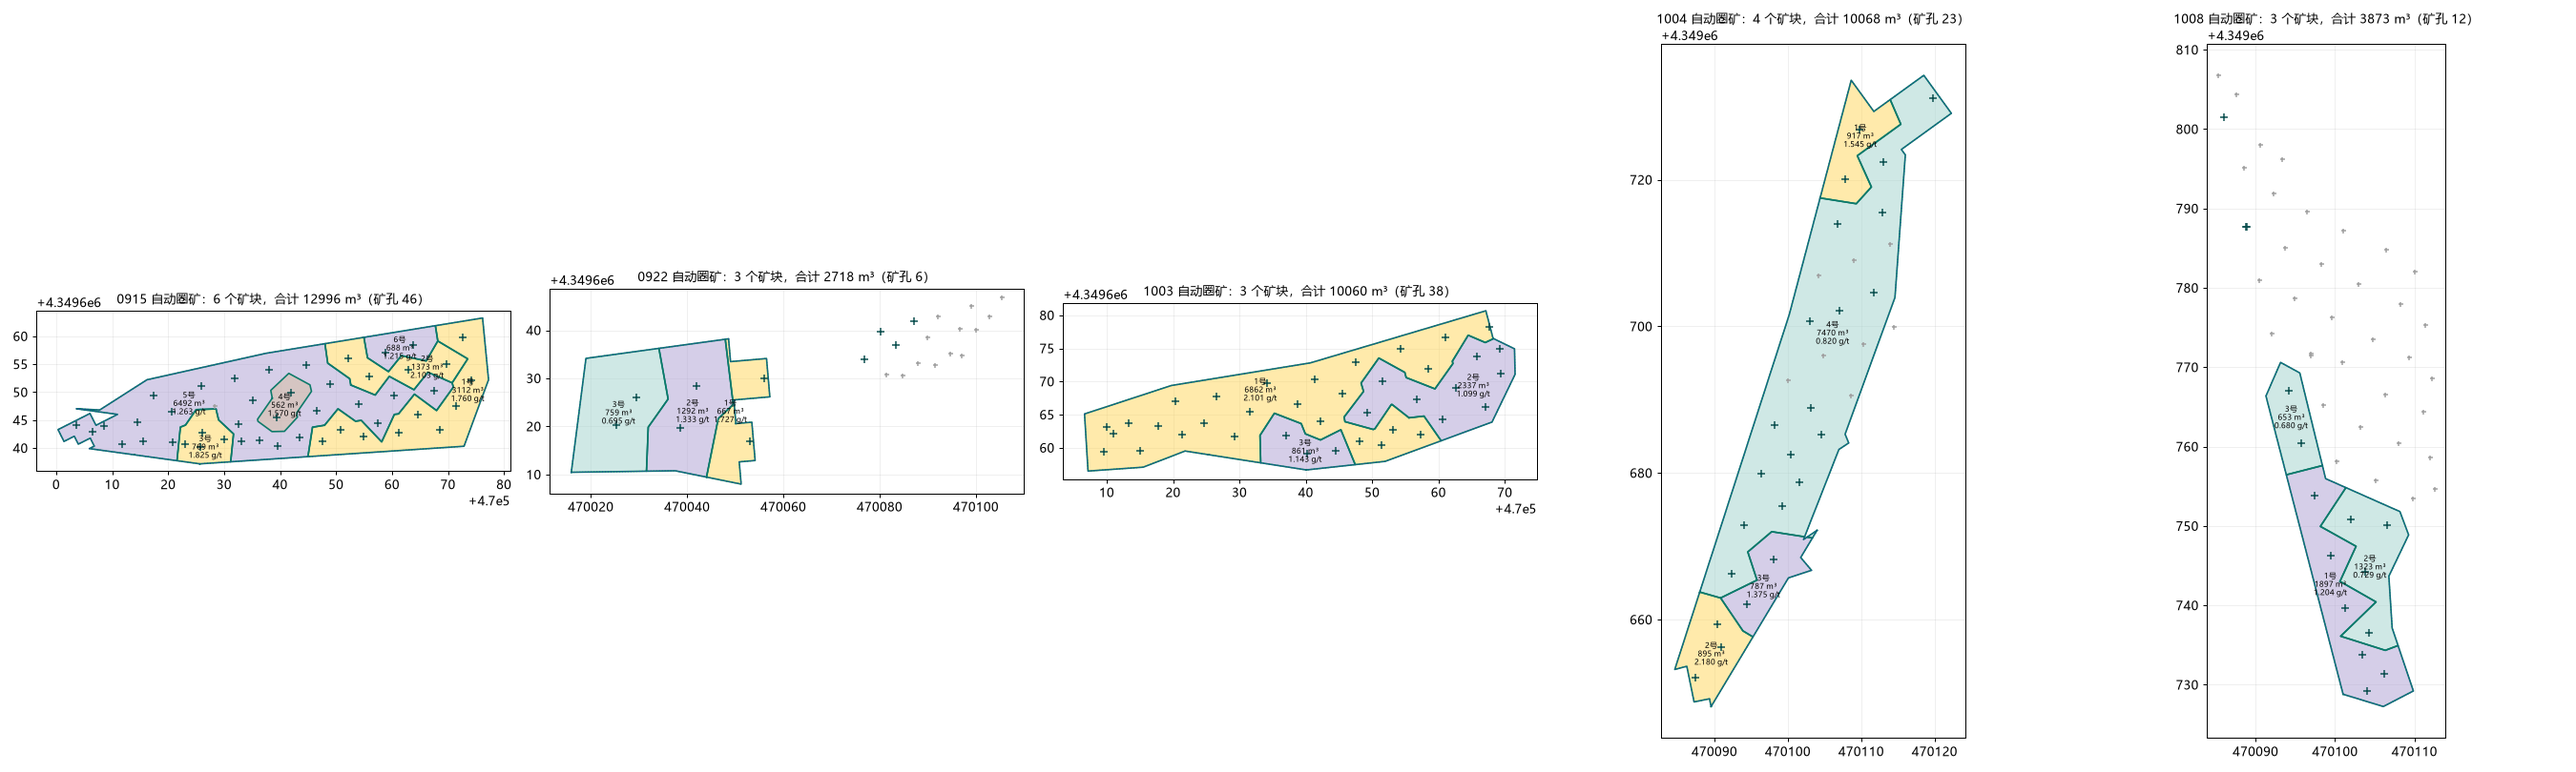
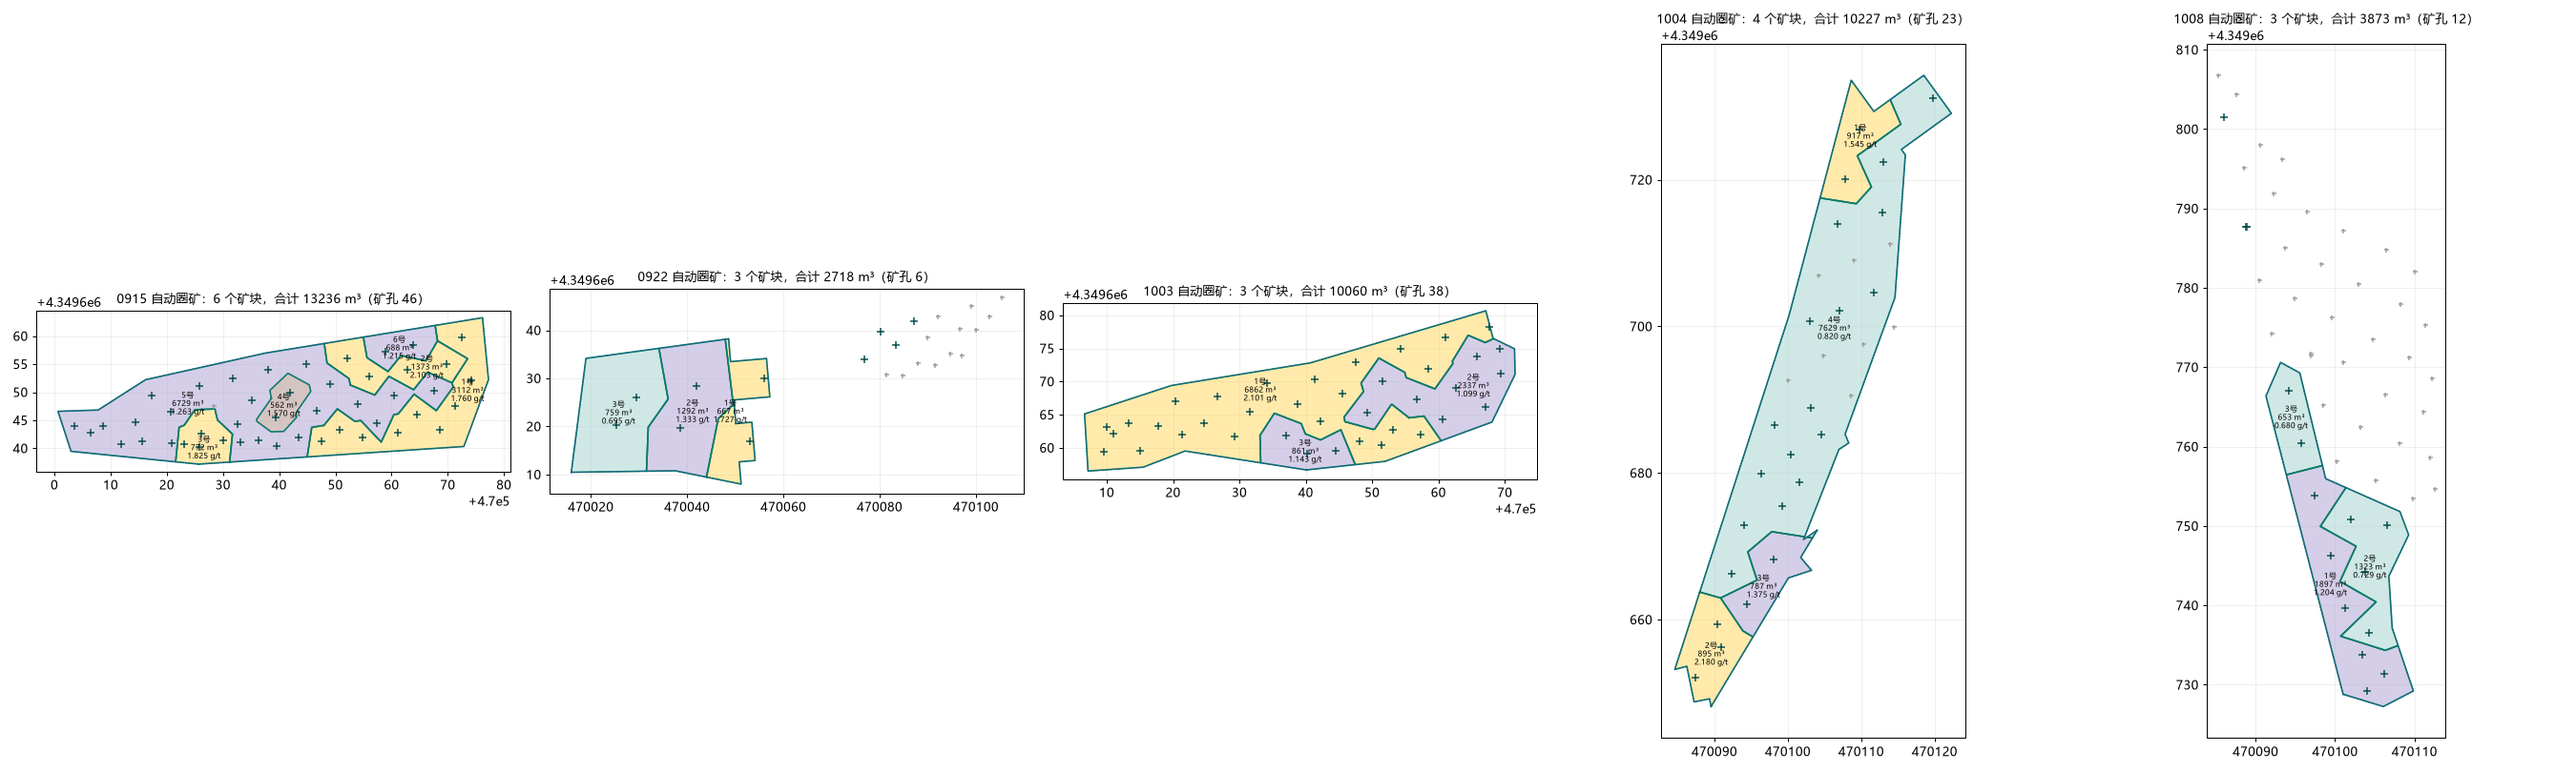
core: 端部闭合按用户'单排孔规则'重做(只认端外无品位孔;端外无孔则沿走向外推)——3940-0915 不再需要自检修补(IoU 0.923->0.927、-1.6%->-1.4%)、1004 IoU 0.805->0.820；0919 单独保留旧闭合；selftest 修掉 GBK 下 UnicodeEncodeError 把退出码顶成 1 的 bug；新增端部对比审图与'同一排窗口'对照实验

diff --git a/3DMine二次圈矿工具_初步原型/core/strip.py b/3DMine二次圈矿工具_初步原型/core/strip.py
@@ -35,6 +35,11 @@ COMPOSITE_BLOCK_LAYERS = None
 # 40 m² + "并入平均品位最接近的邻块" 时，与人工图的分块一致率最高（0.936）。
 MIN_FRAGMENT_M2 = 40.0
 CHAIN_WINDOW_FACTOR = 1.0   # 链提取的沿向窗口 = 1.0 × 中位最近孔距
+# "同一排"的判定窗口 = 这个系数 × 矿孔最近邻距离中位数（用户 2026-10-14 说
+# "不设范围"；实测去掉窗口（设成很大的数）会让几乎所有孔都变成内部孔，
+# 1008 的 12 孔归属从"与人工全一致"掉到 4 个孔进不了链，所以窗口先留着，
+# 系数做成常量方便标定/回退。
+CHAIN_BAND_FACTOR = 0.9
 END_SEARCH_R = 12.0    # 端部找邻孔半径
 END_LIMIT = 2          # 每端每侧最多取几个邻孔的中点
 MIN_HOLES_FOR_INTERIOR = 6   # 少于这么多孔就不做"内部孔"剔除（小组直接分左右）
@@ -162,7 +167,7 @@ def zone_chains(ore, all_holes=None, manual_left=(), manual_right=(), exclude=No
     for i in range(n):
         dmin.append(min(np.hypot(xy[j][0] - xy[i][0], xy[j][1] - xy[i][1])
                         for j in range(n) if j != i) if n > 1 else 0.0)
-    band = 0.9 * float(np.median(dmin)) if n > 1 else 0.0
+    band = CHAIN_BAND_FACTOR * float(np.median(dmin)) if n > 1 else 0.0
     left, right = [], []
     for i in range(n):
         if ore[i].short in ex:
@@ -290,14 +295,25 @@ def _smooth_chain(pts, tol: float):
     return [tuple(c[:2]) for c in ln.coords]
 
 
-def _end_mids(end_hole, waste, ref_dir, radius=END_SEARCH_R):
-    """端部闭合：端孔与附近所有无品位孔的中点，沿 ref_dir 排序。"""
+def _end_mids(end_hole, waste, ref_dir, radius=END_SEARCH_R, beyond_only=True):
+    """端部闭合：端孔与**端部之外**的无品位孔的中点，沿 ref_dir 排序。
+
+    用户规则（2026-10-14）：端部"单排孔"要往**没有炮孔的一侧**推 extrude；
+    另一侧（有无品位孔的一侧）用"1/2 工程间距"＝矿孔与无品位孔的中点。
+    所以只认**落在端孔之外**（沿 ref_dir 前方）的无品位孔——落在矿化带内侧的
+    无品位孔不能拿来当端部闭合点（0915 曾经把内侧的 P21 拿去闭合，端头拧成一团、
+    4 个矿孔被甩到界外）。
+    """
     mids = []
+    r = np.asarray(ref_dir, float)
     for w in waste:
         d = math.hypot(end_hole.x - w.x, end_hole.y - w.y)
-        if d <= radius:
-            mids.append(((end_hole.x + w.x) / 2.0, (end_hole.y + w.y) / 2.0))
-    r = np.asarray(ref_dir, float)
+        if d > radius:
+            continue
+        if beyond_only and ((w.x - end_hole.x) * r[0]
+                            + (w.y - end_hole.y) * r[1]) <= 0:
+            continue                       # 无品位孔在矿化带内侧，不参与端部闭合
+        mids.append(((end_hole.x + w.x) / 2.0, (end_hole.y + w.y) / 2.0))
     mids.sort(key=lambda p: (p[0] - end_hole.x) * r[0] + (p[1] - end_hole.y) * r[1])
     return mids
 
@@ -594,7 +610,7 @@ def _finish_ring(poly, ore, extrude, simplify, repair_tip=None):
 
 
 def _alpha_ring(ore, all_holes, extrude: float, comp_blocks, merge_gap: float,
-                blast: str, k: float):
+                blast: str, k: float, end_pair_beyond: bool = True):
     """外轮廓环：矿孔凹包 + 外推，再把北端闭合与南端接综合图的"走廊"补进来。
 
     专治"孔列多、走向弯"的矿带——那时按走向中线分左右链会把外圈孔判成内部孔，
@@ -618,7 +634,8 @@ def _alpha_ring(ore, all_holes, extrude: float, comp_blocks, merge_gap: float,
         sel = [j for j in range(len(ore)) if lo <= s_all[j] <= hi]
         mids = []
         for j in sel:
-            mids += _end_mids(ore[j], waste, u if want_north else -u, radius=12.0)
+            mids += _end_mids(ore[j], waste, u if want_north else -u, radius=12.0,
+                              beyond_only=end_pair_beyond)
         return mids
 
     north = None
@@ -658,7 +675,7 @@ def zone_outline(ore, all_holes, extrude: float = EXTRUDE_M,
                  alpha_k: float = 0.0, chain_mode: str = "pca",
                  ring_mode: str = "chain", chain_left=(), chain_right=(),
                  chain_exclude=None, chain_smooth_m: float = 0.0,
-                 repair_tip_m: float = None):
+                 repair_tip_m: float = None, end_pair_beyond: bool = True):
     """整条矿化带的外围矿界（复刻人工图的折线结构：11~21 个拐点）。
 
     人工图的画法（由其 .3ds 逐步还原）：
@@ -671,7 +688,7 @@ def zone_outline(ore, all_holes, extrude: float = EXTRUDE_M,
         return None
     if ring_mode == "alpha":
         poly = _alpha_ring(ore, all_holes, extrude, comp_blocks, merge_gap,
-                           blast, alpha_k or 2.0)
+                           blast, alpha_k or 2.0, end_pair_beyond=end_pair_beyond)
         if poly is not None and not poly.is_empty:
             poly = _finish_ring(poly, ore, extrude, simplify, repair_tip_m)
             LAST_RING["merged_block"] = LAST_RING.get("merged_block")
@@ -702,7 +719,8 @@ def zone_outline(ore, all_holes, extrude: float = EXTRUDE_M,
         sel = [j for j in range(len(ore)) if lo <= s_all[j] <= hi]
         mids = []
         for j in sel:
-            mids += _end_mids(ore[j], waste, u if want_north else -u, radius=12.0)
+            mids += _end_mids(ore[j], waste, u if want_north else -u, radius=12.0,
+                              beyond_only=end_pair_beyond)
         return mids
 
     # 北端：只有"配方所属炮区"才用人工配方（8 个指定孔对的中点，1008 上 8/8 吻合）。

diff --git a/3DMine二次圈矿工具_初步原型/_probe/_review0915.py b/3DMine二次圈矿工具_初步原型/_probe/_review0915.py
@@ -1,0 +1,54 @@
+# -*- coding: utf-8 -*-
+import sys, json
+from pathlib import Path
+ROOT = Path(".").resolve()
+sys.path.insert(0, str(ROOT/"core")); sys.path.insert(0, str(ROOT/"_probe"))
+import matplotlib; matplotlib.use("Agg")
+import matplotlib.pyplot as plt
+matplotlib.rcParams["font.sans-serif"]=["Microsoft YaHei","SimHei"]; matplotlib.rcParams["axes.unicode_minus"]=False
+from shapely.geometry import Polygon, Point
+from shapely.ops import unary_union
+from oreblocks import load_holes_xls
+from pipeline import run_blast
+from composite import load_composite_blocks
+import params as _params, baseline as _bl
+DAY = ROOT.parent/"北部山头3940平台2026"
+folder = [d for d in (DAY/"7、单日数据").iterdir() if d.is_dir() and d.name.endswith("0915")][0]
+holes = load_holes_xls(sorted(folder.glob("1、*.xls"))[0]); allh=list(holes.values())
+comp = load_composite_blocks(DAY/"5、 北部山头3940平台二次圈矿矿块图-2026综合.dwg")
+P = dict(_params.for_blast("0915", platform="3940"))
+old = dict(P); old["end_pair_beyond"] = False
+res_new = run_blast(holes, allh, P, comp, blast="0915")
+res_old = run_blast(holes, allh, old, comp, blast="0915")
+j = json.loads(_bl.scan_path("3940","0915").read_text(encoding="utf-8"))
+mb=[Polygon(p["pts"]).buffer(0) for p in j["polylines"] if p["layer"] not in {"爆区方格网","钻孔","点","线条","孔口文字"} and len(p["pts"])>=3 and _bl.is_block(Polygon(p["pts"]).buffer(0),p["layer"],allh)]
+man=unary_union(mb)
+def ext(g, out):
+    for gg in ([g] if g.geom_type=="Polygon" else list(g.geoms)):
+        x,y=gg.exterior.xy; out.append((x,y))
+def ring_geom(res):
+    r=res["rings"][0]
+    for rr in res["rings"][1:]: r=r.union(rr)
+    return r
+rings={"new":ring_geom(res_new), "old":ring_geom(res_old)}
+fig,axs=plt.subplots(1,2,figsize=(21,10))
+for ax,(x0,x1,y0,y1),title in zip(axs,[(469995,470082,4349632,4349668),(469994,470030,4349635,4349658)],["3940-0915 全图对照","0915 西端头放大"]):
+    ext(man, [])
+    for gg in ([man] if man.geom_type=="Polygon" else list(man.geoms)):
+        x,y=gg.exterior.xy; ax.plot(x,y,color="#d62728",lw=2.0,label="人工图")
+    for key,col,ls,lw,lab in (("old","#999999","--",1.4,"旧闭合（端部借用内侧无品位孔）"),("new","#1f77b4","-",1.8,"新闭合（端部只认端外无品位孔 → 3 m）")):
+        for gg in ([rings[key]] if rings[key].geom_type=="Polygon" else list(rings[key].geoms)):
+            x,y=gg.exterior.xy; ax.plot(x,y,color=col,ls=ls,lw=lw,label=lab if key=="new" or True else None)
+    for h in allh:
+        col="orange" if h.grade>=0.5 else "black"
+        ax.plot(h.x,h.y,"o",color=col,ms=5)
+        ax.annotate(h.short.replace("BS-3940-0915-","")+"/%.2f"%h.grade,(h.x,h.y),fontsize=7.5)
+    ax.set_xlim(x0,x1); ax.set_ylim(y0,y1); ax.set_aspect("equal"); ax.grid(alpha=.3)
+    h,l=ax.get_legend_handles_labels(); seen=set(); hh=[];ll=[]
+    for a,b in zip(h,l):
+        if b in seen: continue
+        seen.add(b); hh.append(a); ll.append(b)
+    ax.legend(hh,ll,loc="upper left",fontsize=10)
+    ax.set_title(title,fontsize=13)
+fig.savefig(ROOT/"sample_data"/"output"/"审图_3940-0915_端部闭合对比.png",dpi=115,bbox_inches="tight")
+print("saved")

diff --git a/3DMine二次圈矿工具_初步原型/_probe/_exp_band.py b/3DMine二次圈矿工具_初步原型/_probe/_exp_band.py
@@ -1,0 +1,43 @@
+# -*- coding: utf-8 -*-
+"""实验：把"同一排"窗口去掉（band=∞）看 3940/3960 会怎样。"""
+import sys, json
+from pathlib import Path
+ROOT = Path(".").resolve()
+sys.path.insert(0, str(ROOT/"core")); sys.path.insert(0, str(ROOT/"_probe"))
+from shapely.geometry import Polygon
+from shapely.ops import unary_union
+from oreblocks import load_holes_xls
+import strip as S
+DAY = ROOT.parent
+PLAT={"3940":DAY/"北部山头3940平台2026","3960":DAY/"北部山头3960平台2026"}
+import baseline as _bl, params as _params
+from pipeline import run_blast
+from composite import load_composite_blocks
+
+def report(tag):
+    print("=== %s ===" % tag)
+    for plat, pdir in PLAT.items():
+        comp=load_composite_blocks(sorted(pdir.glob("*综合*.dwg"))[0])
+        for folder in sorted(d for d in (pdir/"7、单日数据").iterdir() if d.is_dir()):
+            if not sorted(folder.glob("1、*.xls")): continue
+            date=folder.name.split("-")[-1].strip()
+            jf=_bl.scan_path(plat,date)
+            if not jf.exists(): continue
+            holes=load_holes_xls(sorted(folder.glob("1、*.xls"))[0]); allh=list(holes.values())
+            j=json.loads(jf.read_text(encoding="utf-8"))
+            mb=[Polygon(p["pts"]).buffer(0) for p in j["polylines"] if p["layer"] not in {"爆区方格网","钻孔","点","线条","孔口文字"} and len(p["pts"])>=3 and _bl.is_block(Polygon(p["pts"]).buffer(0),p["layer"],allh)]
+            if not mb: continue
+            man=unary_union(mb)
+            P=_params.for_blast(date,platform=plat)
+            res=run_blast(holes, allh, P, comp, blast=date)
+            if not res["rings"]: print("  %s-%s 无矿界" % (plat,date)); continue
+            ring=res["rings"][0]
+            for rr in res["rings"][1:]: ring=ring.union(rr)
+            iou=ring.intersection(man).area/ring.union(man).area
+            tv=sum(b.volume_m3 for b in res["blocks"])
+            mv,_=_bl.volume_for_gate(plat,date,man,res["ore"])
+            print("  %-11s iou=%.3f 块=%d vol差=%+.1f%% 外孔=%d" % (plat+"-"+date, iou, len(res["blocks"]), 100*(tv-mv)/mv if mv else 0, len([h for h in res["ore"] if not ring.contains(__import__("shapely.geometry",fromlist=["Point"]).Point(h.x,h.y))])))
+
+report("当前 band=0.9×孔距")
+S.CHAIN_BAND_FACTOR = 50.0
+report("实验 band=∞（不设范围）")

diff --git a/3DMine二次圈矿工具_初步原型/core/params.py b/3DMine二次圈矿工具_初步原型/core/params.py
@@ -31,6 +31,11 @@ DEFAULTS = {
     "chain_exclude": [],
     "chain_smooth_m": 0.0,     # >0 时先给链做道格拉斯-普客平滑再外推（治锯齿尖刺）
     "repair_tip_m": 0.8,       # 自检修补廊道端头伸出量(m)；-1 = 自动(extrude+0.8，上限 4)
+    # 端部闭合时只认"落在端孔之外"的无品位孔（用户 2026-10-14 规则：单排端头往
+    # 没有炮孔的一侧推 extrude，另一侧用 1/2 工程间距＝与无品位孔的中点）。
+    # 置 False = 旧的宽松行为（半径内任何无品位孔都拿来取中点），只给标定时
+    # 发现"紧凑孔簇端头"更贴人工图的个别炮区用（如 3960-0919）。
+    "end_pair_beyond": True,
     "block_merge_gap": 0.0,    # >0 时：相邻两块平均品位差小于它 就并成一块
     "same_block": [],          # 人工指定这些孔算同一块，如 [["P1","P2","P3","P4","P6"]]
     "density_waste": 2.65,     # 0–0.5 档容重

diff --git a/3DMine二次圈矿工具_初步原型/core/pipeline.py b/3DMine二次圈矿工具_初步原型/core/pipeline.py
@@ -106,7 +106,8 @@ def run_blast(holes, allh, P: dict, comp_blocks=None, blast: str = ""):
                                 chain_right=P.get("chain_right") or (),
                                 chain_exclude=P.get("chain_exclude"),
                                 chain_smooth_m=P.get("chain_smooth_m", 0.0),
-                                repair_tip_m=P.get("repair_tip_m"))
+                                repair_tip_m=P.get("repair_tip_m"),
+                                end_pair_beyond=P.get("end_pair_beyond", True))
         if ring is None:
             continue
         rings.append(ring)

diff --git a/3DMine二次圈矿工具_初步原型/_probe/selftest.py b/3DMine二次圈矿工具_初步原型/_probe/selftest.py
@@ -65,6 +65,12 @@ def composite_of(plat_dir: Path):
 
 
 def main() -> None:
+    # 控制台是 GBK 时，"✓"之类的字符会让 print 抛 UnicodeEncodeError（退出码被顶成 1），
+    # 这里把不可编码的字符替换掉，保证"退出码 = 验收结论"。
+    try:
+        sys.stdout.reconfigure(errors="replace")
+    except Exception:
+        pass
     want = [a for a in sys.argv[1:] if not a.startswith("-")] or list(PLATFORMS)
     bad, rows = [], []
     for plat in want:

diff --git a/3DMine二次圈矿工具_初步原型/口径确认记录.md b/3DMine二次圈矿工具_初步原型/口径确认记录.md
@@ -142,3 +142,37 @@
 ## E. 待定（问了还没定）
 
 - 0915 / 0922 / 1003 / 1004 的自动结果尚未人工校核（见 `_probe/review_batch.py` 出的回归图）。
+
+## F. 2026-10-14 落地：端部闭合按"单排孔规则"重做
+
+B.3 那条规则原来是按"半径 12 m 内的任何无品位孔都取中点"实现的，端头一旦只是
+**单排孔**（端部之外没有炮孔、无品位孔在矿化带**内侧**），就会拿内侧的孔去闭合，
+端头拧成一团、矿孔被甩到界外，再靠"自检修补廊道"硬接回来。0915 西端头就是这样
+（P14、P17、P18、P19 四个矿孔落在界外）。
+
+现在的实现（`core/strip.py: _end_mids`，参数 `end_pair_beyond`，全局默认 `true`）：
+
+| 端部情形 | 闭合做法 |
+|---|---|
+| 端孔之外**有无品位孔** | 取矿孔与它的**中点**（＝1/2 工程间距；这就是 B.3 说的"另一侧"） |
+| 端孔之外**没有炮孔** | 不借内侧孔，直接把两条链的端点沿走向**外推 `extrude_m`** 再闭合（B.3 的"往没有炮孔的一侧推 3 m"） |
+
+效果（`_probe/selftest.py`，前后各跑一次）：
+
+| 炮区 | 改前 | 改后 |
+|---|---|---|
+| 3940-0915 | IoU 0.923 / 体积 −1.6% / **自检修补 4 孔** | IoU **0.927** / 体积 **−1.4%** / **不再需要修补** |
+| 3940-1004 | IoU 0.805 / +0.1% | IoU **0.820** / +1.7% |
+| 3940-1008、1003、0922 与 3960 全部 | — | 不变 |
+| 3960-0919 | IoU 0.744 / −2.9% / 1 块 | 这条规则下变成 0.712 / +9.8% / 2 块 → 该炮区**单独关掉**（`end_pair_beyond: false`），保留标定结果 |
+
+（0919 是"贴着爆区边界的紧凑孔簇"，人工图把块画得很紧、端头只在矿孔外 2~3 m，
+它的 `extrude_m` 7 m 本来就是配合旧闭合标出来的，所以这炮保留旧闭合。）
+
+另外做了一次对照实验（`_probe/_exp_band.py`）：把"同一排"的判定窗口
+（B.2 的 ±0.9×最近邻距离中位数）**去掉**（＝真的"不设范围"）后，
+3940 五个炮区全部退化——1003 IoU 0.911→0.557（体积 −41.9%，4 个矿孔跑到界外）、
+1008 0.929→0.713、0915 0.927→0.863、0922 0.624→0.563、
+3960-0919 0.744→0.487（−45.9%）。
+原因是去掉窗口后几乎所有孔都变成"两侧都有矿孔"的内部孔，两条链只剩最外两个孔。
+所以**窗口保留**，系数抽成常量 `strip.CHAIN_BAND_FACTOR = 0.9` 便于按平台标定。
